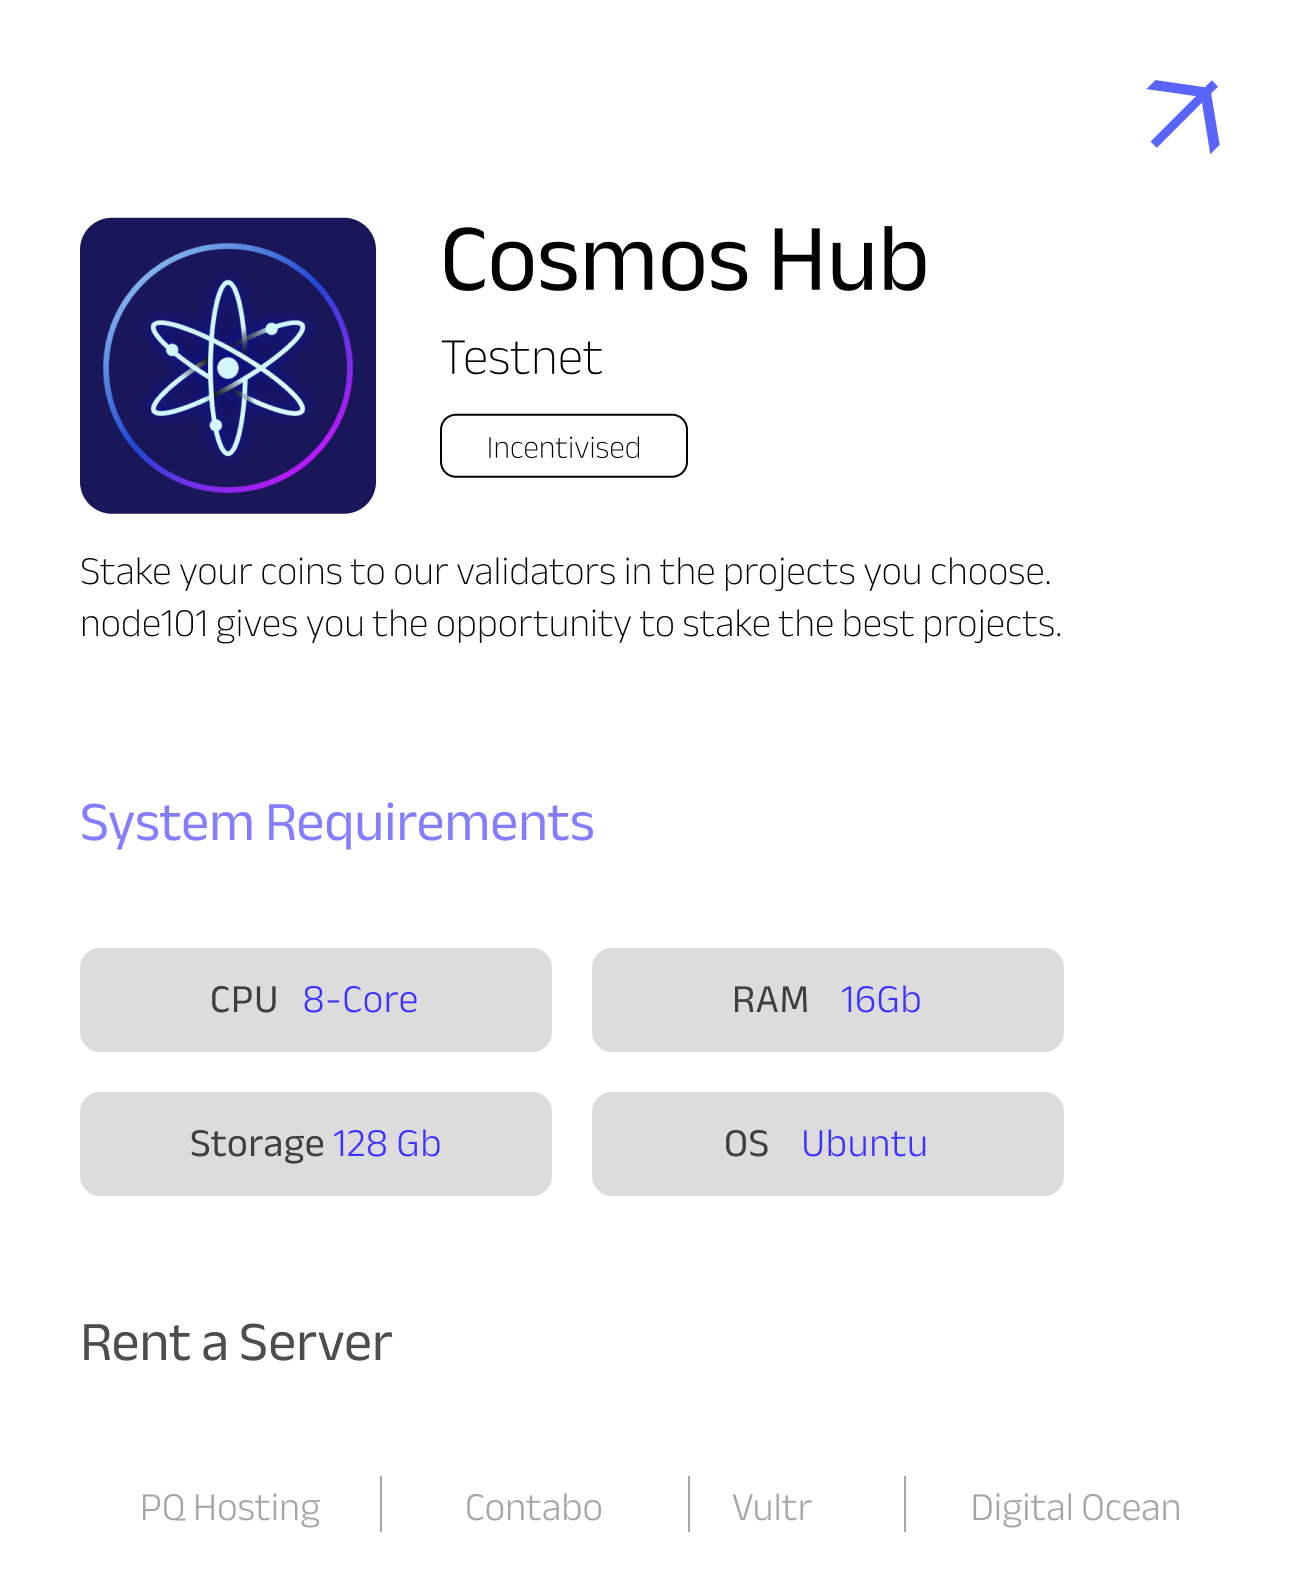
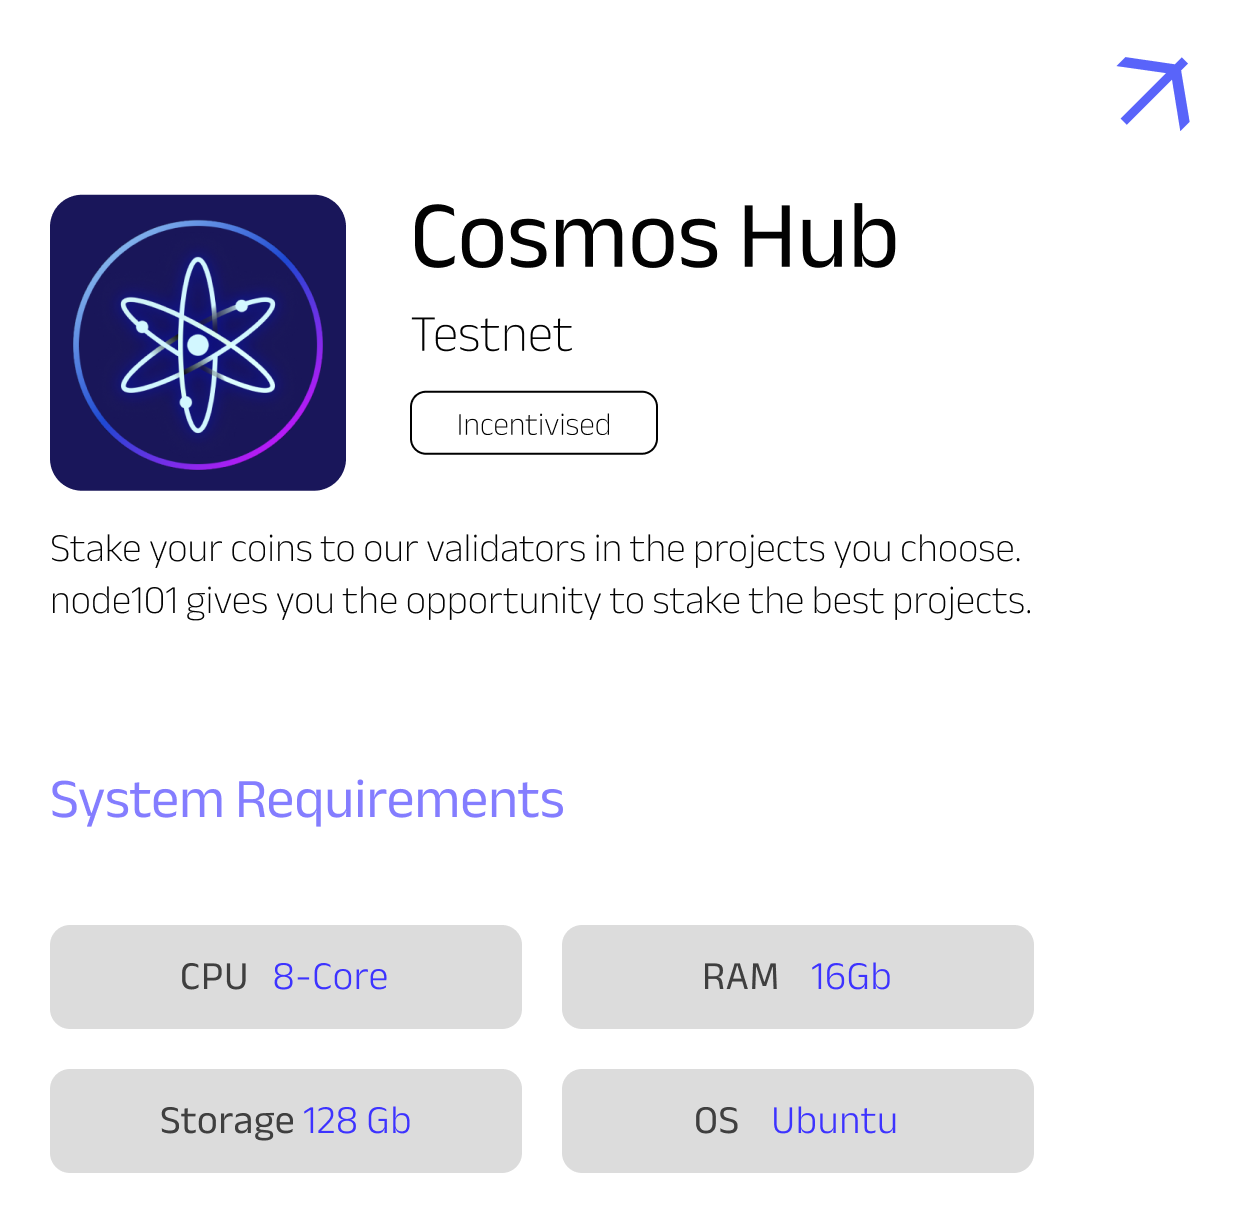
Fix new design by hatun

diff --git a/public/css/index/index.css b/public/css/index/index.css
@@ -18,7 +18,7 @@
   --product-header-image-height: 60px;
   --product-projects-image-width: 1000px;
   --product-small-details-width: 320px;
-  --product-small-details-image-top-gap: -140px;
+  --product-small-details-image-top-gap: -60px;
 
   --security-description-wrapper-width: 500px;
 
@@ -74,8 +74,11 @@
   text-decoration: none;
   margin-right: auto;
 }
-.all-header-logo {
+.all-header-logo, .all-header-logo-responsive {
   height: 24px;
+}
+.all-header-logo-responsive {
+  display: none;
 }
 
 .all-header-socials-wrapper {
@@ -144,7 +147,6 @@
   font-weight: 600;
   font-size: var(--text-font-size);
   color: var(--main-color);
-  margin-right: 7px;
 }
 .all-header-language-button-image {
   height: 18px;
@@ -172,7 +174,7 @@
   padding-top: var(--header-height);
 }
 .title {
-  font-weight: 600;
+  font-weight: 400;
   font-size: 60px;
   line-height: 130%;
   color: var(--text-color);
@@ -212,7 +214,7 @@
   min-height: var(--download-button-height);
   width: var(--download-button-width);
   min-width: var(--download-button-width);
-  cursor: pointer;
+  cursor: default;
   display: flex;
   align-items: center;
   justify-content: space-between;
@@ -227,7 +229,7 @@
   color: var(--button-text-color);
 }
 .download-button-icon {
-  fill: var(--text-color);
+  fill: var(--button-text-color);
   height: 18px;
   width: auto;
 }
@@ -249,7 +251,7 @@
 }
 .other-download-button {
   text-decoration: none;
-  cursor: pointer;
+  cursor: default;
   margin-left: 10px;
   opacity: 0.9;
   height: fit-content;
@@ -525,7 +527,7 @@
   min-height: fit-content;
   width: 100%;
   min-width: 100%;
-  padding: 0 var(--content-horizontal-padding);
+  padding: 0 calc(var(--content-gap) / 2);
 }
 
 
@@ -714,6 +716,7 @@
   color: var(--button-background-color);
   margin: 0 5px;
   text-decoration: none;
+  fill: var(--text-color);
 }
 .all-footer-reach-us-link:hover {
   text-decoration: underline;
@@ -744,7 +747,7 @@
 @media only screen and (max-width: 1200px) {
   :root {
     --content-gap: 120px;
-    --product-login-image-width: 300px;
+    --product-small-details-width: 300px;
     --security-description-wrapper-width: 400px;
   }
 }
@@ -845,7 +848,7 @@
 @media only screen and (max-width: 860px) {
   :root {
     --product-header-image-height: 40px;
-    --product-login-image-width: 250px;
+    --product-small-details-width: 250px;
   }
   .product-small-details-image {
     right: 0;
@@ -937,7 +940,7 @@
     --text-font-size: 15px;
     --header-download-button-height: 35px;
     --header-download-button-width: 100px;
-    --product-login-image-width: 200px;
+    --product-small-details-width: 200px;
     --product-header-image-height: 30px;
     --steps-login-image-width: 220px;
     --security-description-wrapper-width: 310px;
@@ -953,6 +956,9 @@
   }
   .subtitle {
     font-size: 17px;
+  }
+  .product-small-details-image {
+    display: none;
   }
   .each-project-logo {
     height: 18px;
@@ -1016,7 +1022,7 @@
     --text-font-size: 15px;
     --header-download-button-height: 35px;
     --header-download-button-width: 100px;
-    --product-login-image-width: 150px;
+    --product-small-details-width: 150px;
     --product-header-image-height: 30px;
     --steps-login-image-width: 190px;
     --security-description-wrapper-width: 310px;
@@ -1025,6 +1031,12 @@
     --footer-input-height: 30px;
     --footer-input-width: 300px;
     --footer-input-button-width: 90px;
+  }
+  .all-header-logo {
+    display: none;
+  }
+  .all-header-logo-responsive {
+    display: unset;
   }
   .title-wrapper {
     height: 350px;
@@ -1082,7 +1094,7 @@
     --text-font-size: 14px;
     --header-download-button-height: 35px;
     --header-download-button-width: 100px;
-    --product-login-image-width: 140px;
+    --product-small-details-width: 140px;
     --product-header-image-height: 30px;
     --steps-login-image-width: 190px;
     --security-description-wrapper-width: 310px;

diff --git a/public/js/index/index.js b/public/js/index/index.js
@@ -39,8 +39,8 @@ window.addEventListener('load', () => {
   projectsSlideAnimation();
 
   allWrapper.addEventListener('scroll', event => {
-    allHeaderWrapper.style.borderBottomColor = `rgba(254, 254, 254, ${0.2 * Math.min(event.target.scrollTop, allHeaderAnimationMaxHeight) / allHeaderAnimationMaxHeight})`;
-    allHeaderWrapper.style.boxShadow = `0 0 3px rgba(254, 254, 254, ${0.2 * Math.min(event.target.scrollTop, allHeaderAnimationMaxHeight) / allHeaderAnimationMaxHeight})`;
+    allHeaderWrapper.style.borderBottomColor = `rgba(14, 14, 16, ${0.2 * Math.min(event.target.scrollTop, allHeaderAnimationMaxHeight) / allHeaderAnimationMaxHeight})`;
+    allHeaderWrapper.style.boxShadow = `0 0 3px rgba(14, 14, 16, ${0.2 * Math.min(event.target.scrollTop, allHeaderAnimationMaxHeight) / allHeaderAnimationMaxHeight})`;
   });
 
   let isSubscribeFormSent = false;
